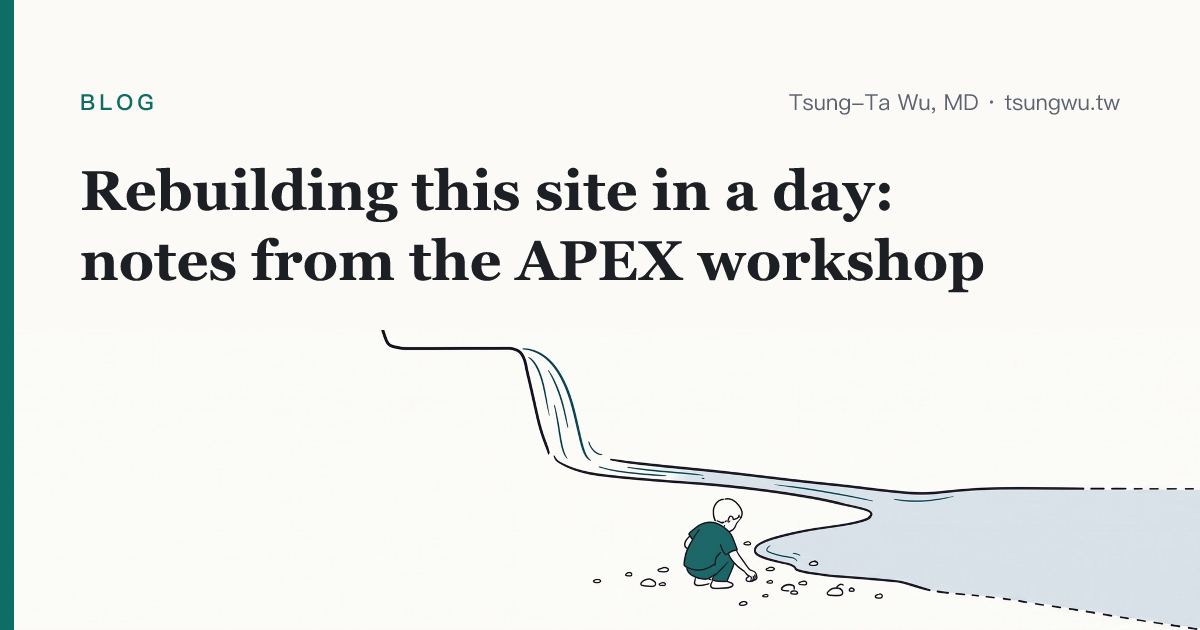
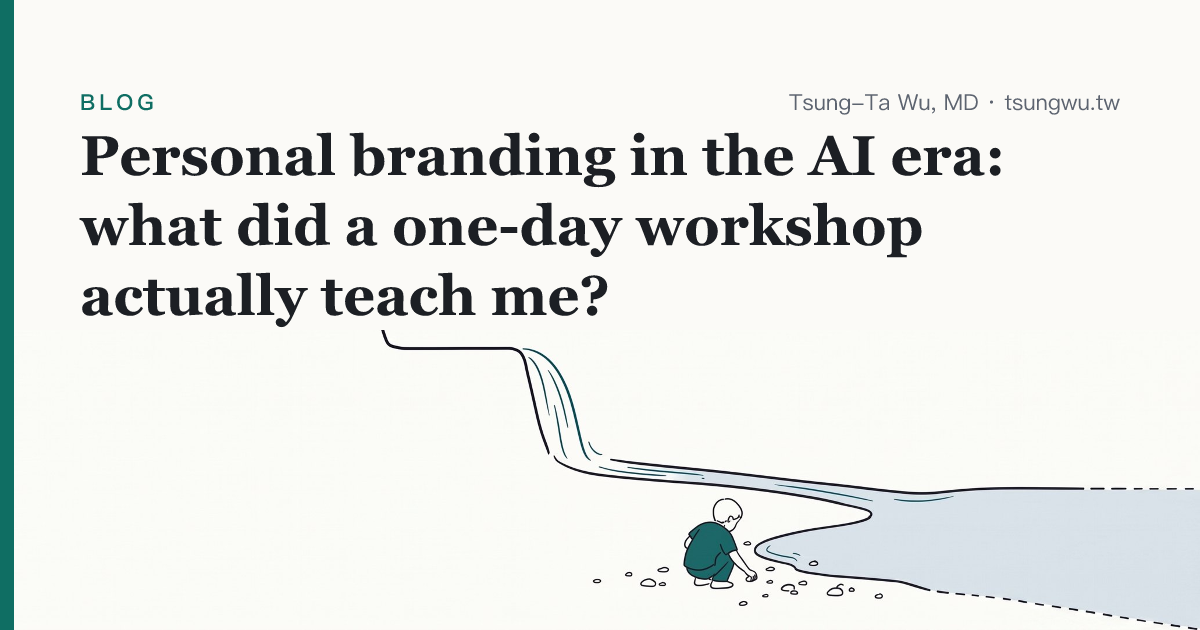
Blog: APEX post reframed (what the day taught, not the website); EN retitled
- ZH title: 除了做出一個網站，這一天還學了什麼？
- EN title: Personal branding in the AI era: what did a one-day workshop actually teach me?
- Drop 'what happened during the day' and the offline/online section
- Writing & illustration paragraph; new closing on the way of working

Changed region(s): [[0.0617, 0.2111, 0.8325, 0.5127]]

diff --git a/personal-site/en/blog/2026-09-12-apex-workshop/index.html b/personal-site/en/blog/2026-09-12-apex-workshop/index.html
@@ -3,16 +3,16 @@
   <head>
     <meta charset="UTF-8" />
     <meta name="viewport" content="width=device-width, initial-scale=1.0" />
-    <title>Rebuilding this site in a day: notes from the APEX workshop · Tsung-Ta Wu, MD</title>
-    <meta name="description" content="On 12 September 2026 I attended the APEX workshop on personal branding in the AI era. The core of an online presence should come from professional accumulation, not traffic, and writing turns out to be nothing more than recording one's own thinking." />
+    <title>Personal branding in the AI era: what did a one-day workshop actually teach me? · Tsung-Ta Wu, MD</title>
+    <meta name="description" content="On 12 September 2026 I attended the APEX workshop on personal branding in the AI era. The website is only the most visible product. What I brought back is a way of working: understand the world a little more each day, record thoughts with little effort, and share them." />
     <link rel="canonical" href="https://tsungwu.tw/en/blog/2026-09-12-apex-workshop/" />
     <link rel="alternate" hreflang="en" href="https://tsungwu.tw/en/blog/2026-09-12-apex-workshop/" />
     <link rel="alternate" hreflang="zh-Hant" href="https://tsungwu.tw/zh/blog/2026-09-12-apex-workshop/" />
     <link rel="alternate" hreflang="x-default" href="https://tsungwu.tw/en/blog/2026-09-12-apex-workshop/" />
     <meta property="og:type" content="article" />
     <meta property="og:site_name" content="Tsung-Ta Wu, MD" />
-    <meta property="og:title" content="Rebuilding this site in a day: notes from the APEX workshop · Tsung-Ta Wu, MD" />
-    <meta property="og:description" content="On 12 September 2026 I attended the APEX workshop on personal branding in the AI era. The core of an online presence should come from professional accumulation, not traffic, and writing turns out to be nothing more than recording one's own thinking." />
+    <meta property="og:title" content="Personal branding in the AI era: what did a one-day workshop actually teach me? · Tsung-Ta Wu, MD" />
+    <meta property="og:description" content="On 12 September 2026 I attended the APEX workshop on personal branding in the AI era. The website is only the most visible product. What I brought back is a way of working: understand the world a little more each day, record thoughts with little effort, and share them." />
     <meta property="og:url" content="https://tsungwu.tw/en/blog/2026-09-12-apex-workshop/" />
     <meta property="og:locale" content="en_US" />
     <meta name="twitter:card" content="summary_large_image" />
@@ -23,7 +23,7 @@
     <link rel="icon" href="/favicon-32.png" sizes="32x32" type="image/png" />
     <link rel="apple-touch-icon" href="/apple-touch-icon.png" />
     <link rel="stylesheet" href="/styles.css?v=892c9673" />
-    <script type="application/ld+json">{"@context":"https://schema.org","@graph":[{"@type":"WebSite","@id":"https://tsungwu.tw/#website","name":"Tsung-Ta Wu, MD","alternateName":"吳宗達 Tsung-Ta Wu, MD","url":"https://tsungwu.tw/","inLanguage":["en","zh-Hant"],"author":{"@id":"https://tsungwu.tw/#person"},"publisher":{"@id":"https://tsungwu.tw/#person"}},{"@type":"Person","@id":"https://tsungwu.tw/#person","name":"Tsung-Ta Wu","alternateName":"吳宗達","honorificSuffix":"MD","jobTitle":["Attending anesthesiologist","Intensivist","Course director for undergraduate medical students"],"worksFor":{"@id":"https://tsungwu.tw/#affiliation"},"affiliation":{"@id":"https://tsungwu.tw/#affiliation"},"url":"https://tsungwu.tw/en/about/","sameAs":["https://scholar.google.com/citations?user=6eNYe2QAAAAJ"],"knowsAbout":[{"@type":"Thing","name":"hemodynamics","sameAs":"https://www.wikidata.org/wiki/Q1642137"},{"@type":"Thing","name":"anesthesiology","sameAs":"https://www.wikidata.org/wiki/Q615057"},{"@type":"Thing","name":"cardiac output","sameAs":"https://www.wikidata.org/wiki/Q596579"},{"@type":"Thing","name":"hypotension","sameAs":"https://www.wikidata.org/wiki/Q275419"},{"@type":"Thing","name":"medical education","sameAs":"https://www.wikidata.org/wiki/Q126945"}]},{"@type":"Hospital","@id":"https://tsungwu.tw/#affiliation","name":"National Taiwan University Hospital Hsinchu Branch","alternateName":"新竹台大分院","url":"https://www.hch.gov.tw/","sameAs":"https://www.wikidata.org/wiki/Q123584454","parentOrganization":{"@type":"Hospital","name":"National Taiwan University Hospital","sameAs":"https://www.wikidata.org/wiki/Q1418766"}},{"@id":"https://tsungwu.tw/en/blog/2026-09-12-apex-workshop/","url":"https://tsungwu.tw/en/blog/2026-09-12-apex-workshop/","name":"Rebuilding this site in a day: notes from the APEX workshop","description":"On 12 September 2026 I attended the APEX workshop on personal branding in the AI era. The core of an online presence should come from professional accumulation, not traffic, and writing turns out to be nothing more than recording one's own thinking.","inLanguage":"en","isPartOf":{"@id":"https://tsungwu.tw/#website"},"@type":"BlogPosting","headline":"Rebuilding this site in a day: notes from the APEX workshop","author":{"@id":"https://tsungwu.tw/#person"},"publisher":{"@id":"https://tsungwu.tw/#person"},"mainEntityOfPage":"https://tsungwu.tw/en/blog/2026-09-12-apex-workshop/","datePublished":"2026-09-12","dateModified":"2026-09-12","keywords":["workshop notes","personal brand"]},{"@type":"BreadcrumbList","itemListElement":[{"@type":"ListItem","position":1,"name":"Home","item":"https://tsungwu.tw/en/"},{"@type":"ListItem","position":2,"name":"Blog","item":"https://tsungwu.tw/en/blog/"},{"@type":"ListItem","position":3,"name":"Rebuilding this site in a day: notes from the APEX workshop","item":"https://tsungwu.tw/en/blog/2026-09-12-apex-workshop/"}]}]}</script>
+    <script type="application/ld+json">{"@context":"https://schema.org","@graph":[{"@type":"WebSite","@id":"https://tsungwu.tw/#website","name":"Tsung-Ta Wu, MD","alternateName":"吳宗達 Tsung-Ta Wu, MD","url":"https://tsungwu.tw/","inLanguage":["en","zh-Hant"],"author":{"@id":"https://tsungwu.tw/#person"},"publisher":{"@id":"https://tsungwu.tw/#person"}},{"@type":"Person","@id":"https://tsungwu.tw/#person","name":"Tsung-Ta Wu","alternateName":"吳宗達","honorificSuffix":"MD","jobTitle":["Attending anesthesiologist","Intensivist","Course director for undergraduate medical students"],"worksFor":{"@id":"https://tsungwu.tw/#affiliation"},"affiliation":{"@id":"https://tsungwu.tw/#affiliation"},"url":"https://tsungwu.tw/en/about/","sameAs":["https://scholar.google.com/citations?user=6eNYe2QAAAAJ"],"knowsAbout":[{"@type":"Thing","name":"hemodynamics","sameAs":"https://www.wikidata.org/wiki/Q1642137"},{"@type":"Thing","name":"anesthesiology","sameAs":"https://www.wikidata.org/wiki/Q615057"},{"@type":"Thing","name":"cardiac output","sameAs":"https://www.wikidata.org/wiki/Q596579"},{"@type":"Thing","name":"hypotension","sameAs":"https://www.wikidata.org/wiki/Q275419"},{"@type":"Thing","name":"medical education","sameAs":"https://www.wikidata.org/wiki/Q126945"}]},{"@type":"Hospital","@id":"https://tsungwu.tw/#affiliation","name":"National Taiwan University Hospital Hsinchu Branch","alternateName":"新竹台大分院","url":"https://www.hch.gov.tw/","sameAs":"https://www.wikidata.org/wiki/Q123584454","parentOrganization":{"@type":"Hospital","name":"National Taiwan University Hospital","sameAs":"https://www.wikidata.org/wiki/Q1418766"}},{"@id":"https://tsungwu.tw/en/blog/2026-09-12-apex-workshop/","url":"https://tsungwu.tw/en/blog/2026-09-12-apex-workshop/","name":"Personal branding in the AI era: what did a one-day workshop actually teach me?","description":"On 12 September 2026 I attended the APEX workshop on personal branding in the AI era. The website is only the most visible product. What I brought back is a way of working: understand the world a little more each day, record thoughts with little effort, and share them.","inLanguage":"en","isPartOf":{"@id":"https://tsungwu.tw/#website"},"@type":"BlogPosting","headline":"Personal branding in the AI era: what did a one-day workshop actually teach me?","author":{"@id":"https://tsungwu.tw/#person"},"publisher":{"@id":"https://tsungwu.tw/#person"},"mainEntityOfPage":"https://tsungwu.tw/en/blog/2026-09-12-apex-workshop/","datePublished":"2026-09-12","dateModified":"2026-09-12","keywords":["workshop notes","personal brand"]},{"@type":"BreadcrumbList","itemListElement":[{"@type":"ListItem","position":1,"name":"Home","item":"https://tsungwu.tw/en/"},{"@type":"ListItem","position":2,"name":"Blog","item":"https://tsungwu.tw/en/blog/"},{"@type":"ListItem","position":3,"name":"Personal branding in the AI era: what did a one-day workshop actually teach me?","item":"https://tsungwu.tw/en/blog/2026-09-12-apex-workshop/"}]}]}</script>
     <meta property="og:image" content="https://tsungwu.tw/og/en-blog-2026-09-12-apex-workshop.png" />
     <meta property="og:image:width" content="1200" />
     <meta property="og:image:height" content="630" />
@@ -46,16 +46,13 @@
     <main class="wrap">
       <p class="kicker"><span class="byline">Tsung-Ta Wu, MD</span> · 12 September 2026</p>
       <article>
-<h1>Rebuilding this site in a day: notes from the APEX workshop</h1>
+<h1>Personal branding in the AI era: what did a one-day workshop actually teach me?</h1>
 <p>Today I attended <a href="https://apex.innovarad.tw/">APEX</a>, a one-day workshop on personal branding in the AI era run by Innovarad in Taipei.</p>
 <h2 id="arriving-with-a-site-that-already-existed">Arriving with a site that already existed</h2>
 <p>I was not starting entirely from zero. The domain tsungwu.tw has been mine since February, with a single-page business-card site on it. Only while preparing for the workshop did I notice that its content was filled in by a script after the page loaded, so the raw HTML that Google and the AI crawlers read was empty in every section. But the real problem was not technical: all I had wanted was a business card. The idea of a personal brand had never crossed my mind. A digital Flintstone, more or less.</p>
 <p>That happens to be the point the workshop kept returning to: in the AI era a site is not only for people to look at; it has to be readable, and quotable, by search engines and language models. So the goal for the day was clear: not to patch, but to rebuild.</p>
-<h2 id="what-happened-during-the-day">What happened during the day</h2>
-<p>Part of it was our own hands: setting up the environment and installing the tools. Whenever someone got stuck, the teaching assistants and instructors came over and untangled it. Once the environment worked, building could begin.</p>
-<p>I backed the old site up three ways, then told the AI: forget the old one, build a new one. Every page of the new site is generated as complete HTML at build time; nothing depends on browser-side scripts. About twenty seconds after a push to GitHub, Cloudflare has the new version live. That speed makes &quot;change a word, look, change again&quot; a workable way to work.</p>
 <h2 id="the-most-important-thing-from-the-morning">The most important thing from the morning</h2>
-<p>The first half of the day covered a fair amount of SEO and GEO basics: how to structure a site, how search engines and AI read a page, which settings are table stakes. Useful, but not what I took away.</p>
+<p>Part of it was our own hands: setting up the environment and installing the tools. Whenever someone got stuck, the teaching assistants and instructors came over and untangled it. Once the environment worked, building could begin. The first half of the day also covered a fair amount of SEO and GEO basics: how to structure a site, how search engines and AI read a page, which settings are table stakes. Useful, but not what I took away.</p>
 <p>The most important sentence was this: <strong>the core of an online personal brand should come from the accumulation of your professional work, not from traffic.</strong></p>
 <p>I had some resistance to the idea of &quot;writing articles continuously.&quot; It sounded like a second job, writing for exposure; and what gets forced out that way is not necessarily what one wants to say. It never felt quite sincere. Listening to the instructor turned that around: it is simply recording one&#39;s own thinking. Every day in clinical work there are judgements being made; every day in research there is literature being read and gaps being noticed. That thinking is already happening; it just is not written down, and so it dissipates.</p>
 <p>Writing it down accumulates a record of one&#39;s professional reasoning. And that process is, in itself, a footprint left in the world. Not for the sake of how many people see it, but so that the ideas existed, can be found, and can be built on. In a digital world these small accumulations are gradually recognised.</p>
@@ -64,8 +61,10 @@
 <p>The afternoon was about how the instructor uses AI agents to make himself stronger. Not &quot;AI is amazing&quot; in the abstract, but a few things he actually uses every day.</p>
 <p>One is the <strong>newsletter</strong>. He has an AI compile the day&#39;s news in a given field into a primer: not merely collecting headlines, but combining what it finds by searching with the background knowledge the model already has, arranging it like a course, written in a tone a high-school student can follow; one can even invite one&#39;s children to subscribe. Used this way, it is a method for keeping up with a field and improving oneself, and a personal brand built on that is more solid.</p>
 <p>Another is <strong>distillation</strong>. Not the model distillation of machine learning; here the thing being distilled is oneself. A conversation with a language model is diffuse, but the AI can be asked to pull out what was actually valuable in it and turn that into material for the next step. The conversation is the process; what is distilled from it is what accumulates.</p>
-<p>On writing and illustration, he shared practical methods for the AI era.</p>
-<p>The last part was about the <strong>link between the physical world and the online one</strong>. Over the long run, what happens offline should be turned into online assets: run a workshop, and the participants&#39; write-ups become backlinks; a restaurant that trades &quot;a review for free fries&quot; is accumulating Google reviews, digital word of mouth. In the other direction, what accumulates online is there so that real-world opportunities can find you. Each of us should think creatively and design a mechanism, suited to our own situation, for gathering user-generated content.</p>
+<p>On writing, what he taught was not technique but how to make writing happen at all: say the idea out loud first, let the AI shape it into a draft, then rewrite it in your own words. Fact-checking can be handed to the AI; whether to change anything stays your call. Illustration works the same way. A post used to stall on finding a suitable image; now a scene described to an image model yields something usable in minutes.</p>
+<h2 id="besides-the-website-what-came-home-with-me">Besides the website, what came home with me</h2>
+<p>Looking back, the website is only the most visible product of the day. What I actually brought back is a way of working: have the AI turn the day&#39;s news in a field into something readable; jot down whatever I read or think of, and let the AI distil the scattered conversation into something that keeps; write as soon as there is an idea, without waiting for it to be complete; tidy it up a little, and publish.</p>
+<p>Working this way, each day I will understand the world a little more, see a little wider, and record my own thoughts with a little less effort. This site is where that accumulation will show, and I am somewhat curious to look back in a year and see what it has grown into.</p>
 
       </article>
     </main>

diff --git a/personal-site/zh/blog/2026-09-12-apex-workshop/index.html b/personal-site/zh/blog/2026-09-12-apex-workshop/index.html
@@ -3,16 +3,16 @@
   <head>
     <meta charset="UTF-8" />
     <meta name="viewport" content="width=device-width, initial-scale=1.0" />
-    <title>一天之內把網站重新做出來：APEX 工作坊課後心得 · 吳宗達 Tsung-Ta Wu, MD</title>
-    <meta name="description" content="2026 年 9 月 12 日參加新思惟《AI 時代的個人品牌工作坊》（APEX）。網路個人品牌的核心來自專業的累積而不是流量；寫文章，其實是把自己的思考記錄下來。" />
+    <title>除了做出一個網站，這一天還學了什麼？ · 吳宗達 Tsung-Ta Wu, MD</title>
+    <meta name="description" content="2026 年 9 月 12 日參加新思惟《AI 時代的個人品牌工作坊》（APEX）。網站只是最看得見的產物；真正帶回來的是一套工作方式：每天理解世界多一點，輕鬆記錄想法，並與世界分享。" />
     <link rel="canonical" href="https://tsungwu.tw/zh/blog/2026-09-12-apex-workshop/" />
     <link rel="alternate" hreflang="en" href="https://tsungwu.tw/en/blog/2026-09-12-apex-workshop/" />
     <link rel="alternate" hreflang="zh-Hant" href="https://tsungwu.tw/zh/blog/2026-09-12-apex-workshop/" />
     <link rel="alternate" hreflang="x-default" href="https://tsungwu.tw/en/blog/2026-09-12-apex-workshop/" />
     <meta property="og:type" content="article" />
     <meta property="og:site_name" content="Tsung-Ta Wu, MD" />
-    <meta property="og:title" content="一天之內把網站重新做出來：APEX 工作坊課後心得 · 吳宗達 Tsung-Ta Wu, MD" />
-    <meta property="og:description" content="2026 年 9 月 12 日參加新思惟《AI 時代的個人品牌工作坊》（APEX）。網路個人品牌的核心來自專業的累積而不是流量；寫文章，其實是把自己的思考記錄下來。" />
+    <meta property="og:title" content="除了做出一個網站，這一天還學了什麼？ · 吳宗達 Tsung-Ta Wu, MD" />
+    <meta property="og:description" content="2026 年 9 月 12 日參加新思惟《AI 時代的個人品牌工作坊》（APEX）。網站只是最看得見的產物；真正帶回來的是一套工作方式：每天理解世界多一點，輕鬆記錄想法，並與世界分享。" />
     <meta property="og:url" content="https://tsungwu.tw/zh/blog/2026-09-12-apex-workshop/" />
     <meta property="og:locale" content="zh_TW" />
     <meta name="twitter:card" content="summary_large_image" />
@@ -23,7 +23,7 @@
     <link rel="icon" href="/favicon-32.png" sizes="32x32" type="image/png" />
     <link rel="apple-touch-icon" href="/apple-touch-icon.png" />
     <link rel="stylesheet" href="/styles.css?v=892c9673" />
-    <script type="application/ld+json">{"@context":"https://schema.org","@graph":[{"@type":"WebSite","@id":"https://tsungwu.tw/#website","name":"Tsung-Ta Wu, MD","alternateName":"吳宗達 Tsung-Ta Wu, MD","url":"https://tsungwu.tw/","inLanguage":["en","zh-Hant"],"author":{"@id":"https://tsungwu.tw/#person"},"publisher":{"@id":"https://tsungwu.tw/#person"}},{"@type":"Person","@id":"https://tsungwu.tw/#person","name":"Tsung-Ta Wu","alternateName":"吳宗達","honorificSuffix":"MD","jobTitle":["Attending anesthesiologist","Intensivist","Course director for undergraduate medical students"],"worksFor":{"@id":"https://tsungwu.tw/#affiliation"},"affiliation":{"@id":"https://tsungwu.tw/#affiliation"},"url":"https://tsungwu.tw/en/about/","sameAs":["https://scholar.google.com/citations?user=6eNYe2QAAAAJ"],"knowsAbout":[{"@type":"Thing","name":"hemodynamics","sameAs":"https://www.wikidata.org/wiki/Q1642137"},{"@type":"Thing","name":"anesthesiology","sameAs":"https://www.wikidata.org/wiki/Q615057"},{"@type":"Thing","name":"cardiac output","sameAs":"https://www.wikidata.org/wiki/Q596579"},{"@type":"Thing","name":"hypotension","sameAs":"https://www.wikidata.org/wiki/Q275419"},{"@type":"Thing","name":"medical education","sameAs":"https://www.wikidata.org/wiki/Q126945"}]},{"@type":"Hospital","@id":"https://tsungwu.tw/#affiliation","name":"National Taiwan University Hospital Hsinchu Branch","alternateName":"新竹台大分院","url":"https://www.hch.gov.tw/","sameAs":"https://www.wikidata.org/wiki/Q123584454","parentOrganization":{"@type":"Hospital","name":"National Taiwan University Hospital","sameAs":"https://www.wikidata.org/wiki/Q1418766"}},{"@id":"https://tsungwu.tw/zh/blog/2026-09-12-apex-workshop/","url":"https://tsungwu.tw/zh/blog/2026-09-12-apex-workshop/","name":"一天之內把網站重新做出來：APEX 工作坊課後心得","description":"2026 年 9 月 12 日參加新思惟《AI 時代的個人品牌工作坊》（APEX）。網路個人品牌的核心來自專業的累積而不是流量；寫文章，其實是把自己的思考記錄下來。","inLanguage":"zh-Hant","isPartOf":{"@id":"https://tsungwu.tw/#website"},"@type":"BlogPosting","headline":"一天之內把網站重新做出來：APEX 工作坊課後心得","author":{"@id":"https://tsungwu.tw/#person"},"publisher":{"@id":"https://tsungwu.tw/#person"},"mainEntityOfPage":"https://tsungwu.tw/zh/blog/2026-09-12-apex-workshop/","datePublished":"2026-09-12","dateModified":"2026-09-12","keywords":["課後記錄","個人品牌"]},{"@type":"BreadcrumbList","itemListElement":[{"@type":"ListItem","position":1,"name":"首頁","item":"https://tsungwu.tw/zh/"},{"@type":"ListItem","position":2,"name":"Blog","item":"https://tsungwu.tw/zh/blog/"},{"@type":"ListItem","position":3,"name":"一天之內把網站重新做出來：APEX 工作坊課後心得","item":"https://tsungwu.tw/zh/blog/2026-09-12-apex-workshop/"}]}]}</script>
+    <script type="application/ld+json">{"@context":"https://schema.org","@graph":[{"@type":"WebSite","@id":"https://tsungwu.tw/#website","name":"Tsung-Ta Wu, MD","alternateName":"吳宗達 Tsung-Ta Wu, MD","url":"https://tsungwu.tw/","inLanguage":["en","zh-Hant"],"author":{"@id":"https://tsungwu.tw/#person"},"publisher":{"@id":"https://tsungwu.tw/#person"}},{"@type":"Person","@id":"https://tsungwu.tw/#person","name":"Tsung-Ta Wu","alternateName":"吳宗達","honorificSuffix":"MD","jobTitle":["Attending anesthesiologist","Intensivist","Course director for undergraduate medical students"],"worksFor":{"@id":"https://tsungwu.tw/#affiliation"},"affiliation":{"@id":"https://tsungwu.tw/#affiliation"},"url":"https://tsungwu.tw/en/about/","sameAs":["https://scholar.google.com/citations?user=6eNYe2QAAAAJ"],"knowsAbout":[{"@type":"Thing","name":"hemodynamics","sameAs":"https://www.wikidata.org/wiki/Q1642137"},{"@type":"Thing","name":"anesthesiology","sameAs":"https://www.wikidata.org/wiki/Q615057"},{"@type":"Thing","name":"cardiac output","sameAs":"https://www.wikidata.org/wiki/Q596579"},{"@type":"Thing","name":"hypotension","sameAs":"https://www.wikidata.org/wiki/Q275419"},{"@type":"Thing","name":"medical education","sameAs":"https://www.wikidata.org/wiki/Q126945"}]},{"@type":"Hospital","@id":"https://tsungwu.tw/#affiliation","name":"National Taiwan University Hospital Hsinchu Branch","alternateName":"新竹台大分院","url":"https://www.hch.gov.tw/","sameAs":"https://www.wikidata.org/wiki/Q123584454","parentOrganization":{"@type":"Hospital","name":"National Taiwan University Hospital","sameAs":"https://www.wikidata.org/wiki/Q1418766"}},{"@id":"https://tsungwu.tw/zh/blog/2026-09-12-apex-workshop/","url":"https://tsungwu.tw/zh/blog/2026-09-12-apex-workshop/","name":"除了做出一個網站，這一天還學了什麼？","description":"2026 年 9 月 12 日參加新思惟《AI 時代的個人品牌工作坊》（APEX）。網站只是最看得見的產物；真正帶回來的是一套工作方式：每天理解世界多一點，輕鬆記錄想法，並與世界分享。","inLanguage":"zh-Hant","isPartOf":{"@id":"https://tsungwu.tw/#website"},"@type":"BlogPosting","headline":"除了做出一個網站，這一天還學了什麼？","author":{"@id":"https://tsungwu.tw/#person"},"publisher":{"@id":"https://tsungwu.tw/#person"},"mainEntityOfPage":"https://tsungwu.tw/zh/blog/2026-09-12-apex-workshop/","datePublished":"2026-09-12","dateModified":"2026-09-12","keywords":["課後記錄","個人品牌"]},{"@type":"BreadcrumbList","itemListElement":[{"@type":"ListItem","position":1,"name":"首頁","item":"https://tsungwu.tw/zh/"},{"@type":"ListItem","position":2,"name":"Blog","item":"https://tsungwu.tw/zh/blog/"},{"@type":"ListItem","position":3,"name":"除了做出一個網站，這一天還學了什麼？","item":"https://tsungwu.tw/zh/blog/2026-09-12-apex-workshop/"}]}]}</script>
     <meta property="og:image" content="https://tsungwu.tw/og/zh-blog-2026-09-12-apex-workshop.png" />
     <meta property="og:image:width" content="1200" />
     <meta property="og:image:height" content="630" />
@@ -46,17 +46,14 @@
     <main class="wrap">
       <p class="kicker"><span class="byline">吳宗達</span> · 2026年9月12日</p>
       <article>
-<h1>一天之內把網站重新做出來：APEX 工作坊課後心得</h1>
+<h1>除了做出一個網站，這一天還學了什麼？</h1>
 <p>今天參加了新思惟的<a href="https://apex.innovarad.tw/">《AI 時代的個人品牌工作坊》</a>（APEX）。</p>
 <h2 id="帶著一個-已經有-的網站去上課">帶著一個「已經有」的網站去上課</h2>
 <p>我不是完全從零開始。tsungwu.tw 今年二月就有了，上面是一個單頁的名片式網站；課前整理資料才發現，它的內容都是瀏覽器打開後才用程式填進去的，Google 和 AI 讀到的原始碼每一區都是空的。但真正的問題不在技術：我只想要一張名片，完全沒有個人品牌的概念，簡直像是數位摩登原始人。</p>
 <p>這正好是這堂課反覆強調的事：AI 時代的網站，不只是給人看，也要讓搜尋引擎和 AI 讀得到、引得到。
 於是今天的目標很清楚：不是修補，是整個重做。</p>
-<h2 id="當天做了什麼">當天做了什麼</h2>
-<p>一部分是自己動手：把環境設定好、把需要的軟體裝好；卡住的時候助教和老師會來解各種疑難雜症。環境一通，就可以開始建網站了。</p>
-<p>我把舊網站備份三份，然後告訴 AI：舊的不管了，直接做新的。新的網站每一頁都是建置時就產生完整的 HTML，不再依賴瀏覽器端的程式；推上 GitHub 之後大約二十秒，Cloudflare 就把新版部署上線。這個速度讓「改一個字、看一下、再改」變成可行的工作方式。</p>
 <h2 id="早上的課-最重要的一件事">早上的課，最重要的一件事</h2>
-<p>課程前半段有不少 SEO、GEO 的基礎知識：網站要怎麼架、搜尋引擎和 AI 怎麼讀你的頁面、哪些設定是基本功。這些有用，但不是我今天帶走最重要的東西。</p>
+<p>一部分是自己動手：把環境設定好、把需要的軟體裝好；卡住的時候助教和老師會來解各種疑難雜症。環境一通，就可以開始建網站了。課程前半段有不少 SEO、GEO 的基礎知識：網站要怎麼架、搜尋引擎和 AI 怎麼讀你的頁面、哪些設定是基本功。這些有用，但不是我今天帶走最重要的東西。</p>
 <p>最重要的是這句：<strong>網路個人品牌的核心，應該來自你專業的累積，而不是流量。</strong></p>
 <p>我原本對「不斷地寫文章」這件事有一點排斥。總覺得那是另一份工作，是為了曝光而寫；硬寫出來的東西也不一定是自己想講的，總感覺不夠真誠。
 但聽完校長的分享，想法轉了一個方向：其實就是把自己的思考記錄下來。
@@ -69,8 +66,10 @@
 <p>下午校長講的是他自己怎麼用 AI agent 讓自己變強。不是空泛的「AI 很厲害」，而是幾個他每天在用的東西。</p>
 <p>一個是<strong>電子報</strong>。他讓 AI 每天把某個領域的消息整理成一份入門報，不只是收集新聞，而是結合搜尋來的資訊和 LLM 本來就有的基礎知識，把它排成課程、用高中生聽得懂的語氣寫，甚至可以邀請孩子們訂閱。用這個方法整理新知、充實自己，讓自己變得更好，個人品牌也更紮實。</p>
 <p>另一個是<strong>蒸餾</strong>。這跟語言模型本身的「模型蒸餾」不同，這裡蒸餾的對象是自己。跟 LLM 聊天的過程本身是散的，但可以請 AI 把一段對話裡真正有價值的東西提出來，變成下一步的素材。對話是過程，蒸餾出來的才是可以累積的東西。</p>
-<p>寫作以及插圖的部分，他介紹了 AI 時代實用的心法。</p>
-<p>最後一段講的是<strong>實體和線上的連結</strong>。個人品牌長期經營下來，實體世界發生的事應該轉成線上的資產：辦一場工作坊，學員的心得文就是反向連結；餐廳用「好評換薯條」換的是 Google 評論，累積的是數位口碑。反過來，線上的累積也是為了讓實體的機會找得到你。每個人都應該發揮巧思，設計一個適合自己的機制去取得 UGC（使用者產生內容）。</p>
+<p>寫作，校長講的不是技巧，而是怎麼讓「寫」發生：想法先用說的，讓 AI 整理成初稿，再用自己的話改。查證可以交給 AI，改不改由自己決定。插圖也一樣。以前文章常卡在配圖上；現在把場景描述給生圖模型，幾分鐘就有可用的圖。</p>
+<h2 id="除了網站-還帶回來什麼">除了網站，還帶回來什麼</h2>
+<p>回頭看，網站只是這一天最看得見的產物。真正帶回來的是一套工作方式：每天讓 AI 把某個領域的新消息整理成讀得懂的東西；讀到什麼、想到什麼，順手記下來，再讓 AI 把散的對話蒸餾成留得住的東西；有了想法就寫，不必等到完整；寫完輕鬆整理就可以發佈。</p>
+<p>用這套方法，每一天理解這個世界會多一點，視野會再開闊一點，記錄自己的想法會更輕鬆一點。網站是見證這些累積的地方，我也有點期待一年後回頭看它長成什麼樣子。</p>
 
       </article>
     </main>

diff --git a/personal-site/zh/blog/index.html b/personal-site/zh/blog/index.html
@@ -50,7 +50,7 @@
       </article>
       <ul class="posts">
 <li class="post-row"><a class="post-title" href="/zh/blog/kao-yu-shu-taipei/">如果臺北一直都這麼藍，高玉樹是怎麼當選的？</a><div class="post-body"><div class="post-meta"><span class="date">2026年9月13日</span><p>1954 年，無黨籍的高玉樹擊敗國民黨的王民寧當選臺北市長；1964 年，他靠一千支手電筒守住票箱再次當選。然後臺北市長就不能選了。臺北並不是天生就藍。</p></div><a class="post-thumb" href="/zh/blog/kao-yu-shu-taipei/" aria-hidden="true" tabindex="-1"><img src="/img/kao-cover.jpg" alt="" loading="lazy"></a></div></li>
-<li class="post-row"><a class="post-title" href="/zh/blog/2026-09-12-apex-workshop/">一天之內把網站重新做出來：APEX 工作坊課後心得</a><div class="post-body"><div class="post-meta"><span class="date">2026年9月12日</span><p>2026 年 9 月 12 日參加新思惟《AI 時代的個人品牌工作坊》（APEX）。網路個人品牌的核心來自專業的累積而不是流量；寫文章，其實是把自己的思考記錄下來。</p></div></div></li>
+<li class="post-row"><a class="post-title" href="/zh/blog/2026-09-12-apex-workshop/">除了做出一個網站，這一天還學了什麼？</a><div class="post-body"><div class="post-meta"><span class="date">2026年9月12日</span><p>2026 年 9 月 12 日參加新思惟《AI 時代的個人品牌工作坊》（APEX）。網站只是最看得見的產物；真正帶回來的是一套工作方式：每天理解世界多一點，輕鬆記錄想法，並與世界分享。</p></div></div></li>
 <li class="post-row"><a class="post-title" href="/zh/blog/sedation-and-anesthesia-safety/">鎮靜與麻醉安全</a><div class="post-body"><div class="post-meta"><span class="date">2019年6月4日</span><p>什麼是鎮靜、什麼是麻醉？從輕度鎮靜到全身麻醉是同一條光譜；愈深，對呼吸循環的影響愈大。這也是為什麼手術與鎮靜麻醉應由不同的人負責。</p></div><a class="post-thumb" href="/zh/blog/sedation-and-anesthesia-safety/" aria-hidden="true" tabindex="-1"><img src="/img/sedation-cover.svg" alt="" loading="lazy"></a></div></li>
       </ul>
     </main>

diff --git a/personal-site/en/blog/index.html b/personal-site/en/blog/index.html
@@ -50,7 +50,7 @@
       </article>
       <ul class="posts">
 <li class="post-row"><a class="post-title" href="/en/blog/kao-yu-shu-taipei/">If Taipei has always voted KMT, how did Kao Yu-shu win?</a><div class="post-body"><div class="post-meta"><span class="date">13 September 2026</span><p>In 1954 the independent Kao Yu-shu beat the Kuomintang's Wang Min-ning for mayor of Taipei; in 1964 he won again with a thousand student monitors holding flashlights over the ballot boxes. Then Taipei stopped electing its mayor. The city was never simply blue.</p></div><a class="post-thumb" href="/en/blog/kao-yu-shu-taipei/" aria-hidden="true" tabindex="-1"><img src="/img/kao-cover.jpg" alt="" loading="lazy"></a></div></li>
-<li class="post-row"><a class="post-title" href="/en/blog/2026-09-12-apex-workshop/">Rebuilding this site in a day: notes from the APEX workshop</a><div class="post-body"><div class="post-meta"><span class="date">12 September 2026</span><p>On 12 September 2026 I attended the APEX workshop on personal branding in the AI era. The core of an online presence should come from professional accumulation, not traffic, and writing turns out to be nothing more than recording one's own thinking.</p></div></div></li>
+<li class="post-row"><a class="post-title" href="/en/blog/2026-09-12-apex-workshop/">Personal branding in the AI era: what did a one-day workshop actually teach me?</a><div class="post-body"><div class="post-meta"><span class="date">12 September 2026</span><p>On 12 September 2026 I attended the APEX workshop on personal branding in the AI era. The website is only the most visible product. What I brought back is a way of working: understand the world a little more each day, record thoughts with little effort, and share them.</p></div></div></li>
       </ul>
     </main>
 

diff --git a/content/en/blog/2026-09-12-apex-workshop.md b/content/en/blog/2026-09-12-apex-workshop.md
@@ -1,11 +1,11 @@
 ---
-title: "Rebuilding this site in a day: notes from the APEX workshop"
-description: On 12 September 2026 I attended the APEX workshop on personal branding in the AI era. The core of an online presence should come from professional accumulation, not traffic, and writing turns out to be nothing more than recording one's own thinking.
+title: "Personal branding in the AI era: what did a one-day workshop actually teach me?"
+description: On 12 September 2026 I attended the APEX workshop on personal branding in the AI era. The website is only the most visible product. What I brought back is a way of working: understand the world a little more each day, record thoughts with little effort, and share them.
 tags: workshop notes, personal brand
 date: 2026-09-12
 ---
 
-# Rebuilding this site in a day: notes from the APEX workshop
+# Personal branding in the AI era: what did a one-day workshop actually teach me?
 
 Today I attended [APEX](https://apex.innovarad.tw/), a one-day workshop on personal branding in the AI era run by Innovarad in Taipei.
 
@@ -15,15 +15,9 @@ I was not starting entirely from zero. The domain tsungwu.tw has been mine since
 
 That happens to be the point the workshop kept returning to: in the AI era a site is not only for people to look at; it has to be readable, and quotable, by search engines and language models. So the goal for the day was clear: not to patch, but to rebuild.
 
-## What happened during the day
-
-Part of it was our own hands: setting up the environment and installing the tools. Whenever someone got stuck, the teaching assistants and instructors came over and untangled it. Once the environment worked, building could begin.
-
-I backed the old site up three ways, then told the AI: forget the old one, build a new one. Every page of the new site is generated as complete HTML at build time; nothing depends on browser-side scripts. About twenty seconds after a push to GitHub, Cloudflare has the new version live. That speed makes "change a word, look, change again" a workable way to work.
-
 ## The most important thing from the morning
 
-The first half of the day covered a fair amount of SEO and GEO basics: how to structure a site, how search engines and AI read a page, which settings are table stakes. Useful, but not what I took away.
+Part of it was our own hands: setting up the environment and installing the tools. Whenever someone got stuck, the teaching assistants and instructors came over and untangled it. Once the environment worked, building could begin. The first half of the day also covered a fair amount of SEO and GEO basics: how to structure a site, how search engines and AI read a page, which settings are table stakes. Useful, but not what I took away.
 
 The most important sentence was this: **the core of an online personal brand should come from the accumulation of your professional work, not from traffic.**
 
@@ -41,6 +35,10 @@ One is the **newsletter**. He has an AI compile the day's news in a given field 
 
 Another is **distillation**. Not the model distillation of machine learning; here the thing being distilled is oneself. A conversation with a language model is diffuse, but the AI can be asked to pull out what was actually valuable in it and turn that into material for the next step. The conversation is the process; what is distilled from it is what accumulates.
 
-On writing and illustration, he shared practical methods for the AI era.
+On writing, what he taught was not technique but how to make writing happen at all: say the idea out loud first, let the AI shape it into a draft, then rewrite it in your own words. Fact-checking can be handed to the AI; whether to change anything stays your call. Illustration works the same way. A post used to stall on finding a suitable image; now a scene described to an image model yields something usable in minutes.
 
-The last part was about the **link between the physical world and the online one**. Over the long run, what happens offline should be turned into online assets: run a workshop, and the participants' write-ups become backlinks; a restaurant that trades "a review for free fries" is accumulating Google reviews, digital word of mouth. In the other direction, what accumulates online is there so that real-world opportunities can find you. Each of us should think creatively and design a mechanism, suited to our own situation, for gathering user-generated content.
+## Besides the website, what came home with me
+
+Looking back, the website is only the most visible product of the day. What I actually brought back is a way of working: have the AI turn the day's news in a field into something readable; jot down whatever I read or think of, and let the AI distil the scattered conversation into something that keeps; write as soon as there is an idea, without waiting for it to be complete; tidy it up a little, and publish.
+
+Working this way, each day I will understand the world a little more, see a little wider, and record my own thoughts with a little less effort. This site is where that accumulation will show, and I am somewhat curious to look back in a year and see what it has grown into.

diff --git a/content/zh/blog/2026-09-12-apex-workshop.md b/content/zh/blog/2026-09-12-apex-workshop.md
@@ -1,11 +1,11 @@
 ---
-title: 一天之內把網站重新做出來：APEX 工作坊課後心得
-description: 2026 年 9 月 12 日參加新思惟《AI 時代的個人品牌工作坊》（APEX）。網路個人品牌的核心來自專業的累積而不是流量；寫文章，其實是把自己的思考記錄下來。
+title: 除了做出一個網站，這一天還學了什麼？
+description: 2026 年 9 月 12 日參加新思惟《AI 時代的個人品牌工作坊》（APEX）。網站只是最看得見的產物；真正帶回來的是一套工作方式：每天理解世界多一點，輕鬆記錄想法，並與世界分享。
 tags: 課後記錄, 個人品牌
 date: 2026-09-12
 ---
 
-# 一天之內把網站重新做出來：APEX 工作坊課後心得
+# 除了做出一個網站，這一天還學了什麼？
 
 今天參加了新思惟的[《AI 時代的個人品牌工作坊》](https://apex.innovarad.tw/)（APEX）。
 
@@ -16,15 +16,9 @@ date: 2026-09-12
 這正好是這堂課反覆強調的事：AI 時代的網站，不只是給人看，也要讓搜尋引擎和 AI 讀得到、引得到。
 於是今天的目標很清楚：不是修補，是整個重做。
 
-## 當天做了什麼
-
-一部分是自己動手：把環境設定好、把需要的軟體裝好；卡住的時候助教和老師會來解各種疑難雜症。環境一通，就可以開始建網站了。
-
-我把舊網站備份三份，然後告訴 AI：舊的不管了，直接做新的。新的網站每一頁都是建置時就產生完整的 HTML，不再依賴瀏覽器端的程式；推上 GitHub 之後大約二十秒，Cloudflare 就把新版部署上線。這個速度讓「改一個字、看一下、再改」變成可行的工作方式。
-
 ## 早上的課，最重要的一件事
 
-課程前半段有不少 SEO、GEO 的基礎知識：網站要怎麼架、搜尋引擎和 AI 怎麼讀你的頁面、哪些設定是基本功。這些有用，但不是我今天帶走最重要的東西。
+一部分是自己動手：把環境設定好、把需要的軟體裝好；卡住的時候助教和老師會來解各種疑難雜症。環境一通，就可以開始建網站了。課程前半段有不少 SEO、GEO 的基礎知識：網站要怎麼架、搜尋引擎和 AI 怎麼讀你的頁面、哪些設定是基本功。這些有用，但不是我今天帶走最重要的東西。
 
 最重要的是這句：**網路個人品牌的核心，應該來自你專業的累積，而不是流量。**
 
@@ -46,6 +40,10 @@ date: 2026-09-12
 
 另一個是**蒸餾**。這跟語言模型本身的「模型蒸餾」不同，這裡蒸餾的對象是自己。跟 LLM 聊天的過程本身是散的，但可以請 AI 把一段對話裡真正有價值的東西提出來，變成下一步的素材。對話是過程，蒸餾出來的才是可以累積的東西。
 
-寫作以及插圖的部分，他介紹了 AI 時代實用的心法。
+寫作，校長講的不是技巧，而是怎麼讓「寫」發生：想法先用說的，讓 AI 整理成初稿，再用自己的話改。查證可以交給 AI，改不改由自己決定。插圖也一樣。以前文章常卡在配圖上；現在把場景描述給生圖模型，幾分鐘就有可用的圖。
 
-最後一段講的是**實體和線上的連結**。個人品牌長期經營下來，實體世界發生的事應該轉成線上的資產：辦一場工作坊，學員的心得文就是反向連結；餐廳用「好評換薯條」換的是 Google 評論，累積的是數位口碑。反過來，線上的累積也是為了讓實體的機會找得到你。每個人都應該發揮巧思，設計一個適合自己的機制去取得 UGC（使用者產生內容）。
+## 除了網站，還帶回來什麼
+
+回頭看，網站只是這一天最看得見的產物。真正帶回來的是一套工作方式：每天讓 AI 把某個領域的新消息整理成讀得懂的東西；讀到什麼、想到什麼，順手記下來，再讓 AI 把散的對話蒸餾成留得住的東西；有了想法就寫，不必等到完整；寫完輕鬆整理就可以發佈。
+
+用這套方法，每一天理解這個世界會多一點，視野會再開闊一點，記錄自己的想法會更輕鬆一點。網站是見證這些累積的地方，我也有點期待一年後回頭看它長成什麼樣子。
